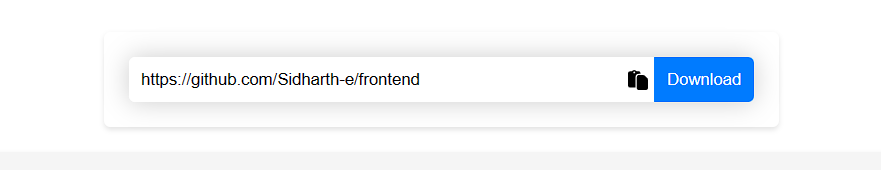
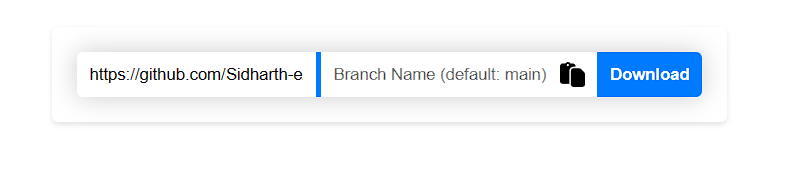
added new option download based on branch

Changed region(s): [[0.0903, 0.2647, 0.9034, 0.6176]]

diff --git a/src/components/tutorial/Tutorial.js b/src/components/tutorial/Tutorial.js
@@ -1,26 +1,31 @@
 import React from 'react';
 import './Tutorial.css';
-import step1 from '../../assets/images/step1.png'
-import step2 from '../../assets/images/step2.png'
-import step3 from '../../assets/images/step3.jpg'
-
-
+import step1 from '../../assets/images/step1.png';
+import step2 from '../../assets/images/step2.png';
+import step3 from '../../assets/images/step3.jpeg';
 
 function Tutorial() {
   const steps = [
     {
       image: step1,
       step: "Copy a GitHub repository URL that you want to download.",
+      explanation:
+        "Start by copying the URL of the GitHub repository you wish to download. You can find this URL in your browser's address bar while you're on the repository page.",
     },
     {
       image: step2,
       step: `Paste the copied URL into the input box by clicking the "Paste" icon or manually entering it.`,
+      explanation:
+        "Next, paste the copied URL into the input box provided on the website. You can either click the \"Paste\" icon to automatically paste the URL from your clipboard, or you can manually type it in. You can also specify an optional branch name if you want to download a specific branch other than the default one.",
     },
     {
       image: step3,
       step: `Click the "Download" button to initiate the download process.`,
+      explanation:
+        "Once you've entered the repository URL, click the \"Download\" button. This action will trigger the website to fetch the repository information and display it on the page.",
     },
   ];
+
   return (
     <div className="tutorial">
       <h2>How to Use the Website</h2>
@@ -29,18 +34,11 @@ function Tutorial() {
       </p>
       <div className="projects-grid">
         {steps.map((step, index) => (
-          <div
-          key={index}
-            className="card"
-          >
-            <img
-              src={step.image}
-              alt={step.step}
-              className="gif"
-            />
+          <div key={index} className="card">
+            <img src={step.image} alt={step.step} className="gif" />
             <div className="info">
               <h3>{step.step}</h3>
-              {/* <p>{project.description}</p> */}
+              <p>{step.explanation}</p>
             </div>
           </div>
         ))}

diff --git a/src/components/download/github.js b/src/components/download/github.js
@@ -13,6 +13,7 @@ function App() {
   const [loading, setLoading] = useState(false);
   const [commits, setCommits] = useState([]);
   const inputRef = useRef(null); // Create a ref for the input element
+  const branchInputRef = useRef(null); // Add a ref for the branch input
 
   const handleGithubUrlChange = (event) => {
     setGithubUrl(event.target.value);
@@ -28,7 +29,7 @@ function App() {
       setLoading(true);
       const repoName = extractRepoName(githubUrl);
       const apiUrl = `https://api.github.com/repos/${repoName}`;
-
+      const branchName = branchInputRef.current.value || "main";
       fetch(apiUrl)
         .then((response) => {
           if (!response.ok) {
@@ -42,7 +43,7 @@ function App() {
         .then((data) => {
           console.log(data);
           setRepoInfo(data);
-          const zipDownloadLink = `https://github.com/${repoName}/archive/refs/heads/main.zip`;
+          const zipDownloadLink = `https://github.com/${repoName}/archive/refs/heads/${branchName}.zip`;
           setDownloadLink(zipDownloadLink);
           fetch(`https://api.github.com/repos/${repoName}/commits`)
             .then((response) => response.json())
@@ -112,8 +113,16 @@ function App() {
           ref={inputRef}
           value={githubUrl}
           onChange={handleGithubUrlChange}
-          placeholder="Enter a GitHub repository URL"
+          placeholder="GitHub repo URL"
         />
+        <div className="line">
+
+        </div>
+        <input
+    type="text"
+    placeholder="Branch Name (default: main)"
+    ref={branchInputRef} // Add a ref for the branch input
+  />
         <FaPaste className="paste" size={20}  style={{ marginRight: 10 }} onClick={handlePaste} />
         <button onClick={handleDownload}>Download</button>
       </div>

diff --git a/src/components/download/github.css b/src/components/download/github.css
@@ -5,7 +5,7 @@
   padding: 20px;
   border-radius: 5px;
   box-shadow: 0 2px 4px rgba(0, 0, 0, 0.1);
-  width: 80%;
+  width: 100%;
   max-width: 500px;
   margin-bottom: 2rem;
 }
@@ -27,7 +27,7 @@ label {
   overflow: hidden;
   border-radius: 5px;
   box-shadow: 0 0 20px rgba(0, 0, 0, 0.2);
-  /* width: 20rem; */
+  width: 100%;
 }
 
 input {
@@ -37,6 +37,7 @@ input {
   outline: none;
   border-radius: 5px 0 0 5px;
   padding: 10px 10px;
+  width: 100%;
 }
 
 button {
@@ -90,7 +91,11 @@ a:hover {
 .downloadbody{
   margin-bottom: 2rem;
 }
-
+.line{
+  padding: 10px 2px;
+  height: 1rem;
+  background-color: #007bff;
+}
 @media only screen and (max-width: 600px) {
   .container{
     width: 95%;
